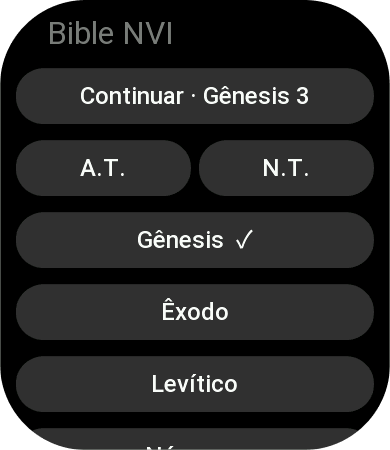
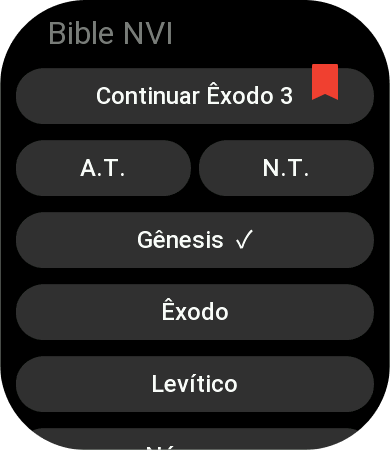
update screenshot

Changed region(s): [[0.1846, 0.1244, 0.8923, 0.2489]]

diff --git a/page/books/index.js b/page/books/index.js
@@ -80,7 +80,7 @@ Page(
           y: btnY,
           w,
           h,
-          text: `${book.name} ${bookmark.chapterIndex + 1}`,
+          text: `Continuar ${book.name} ${bookmark.chapterIndex + 1}`,
           text_size: textSize,
           color,
           normal_color: bgColor,
@@ -96,7 +96,7 @@ Page(
         const imgW = px(26);
         const imgH = px(38);
         hmUI.createWidget(hmUI.widget.IMG, {
-          x: Math.floor(LAYOUT.W * 0.75),
+          x: Math.floor(LAYOUT.W * 0.8),
           y: btnY - px(6),
           w: imgW,
           h: imgH,
